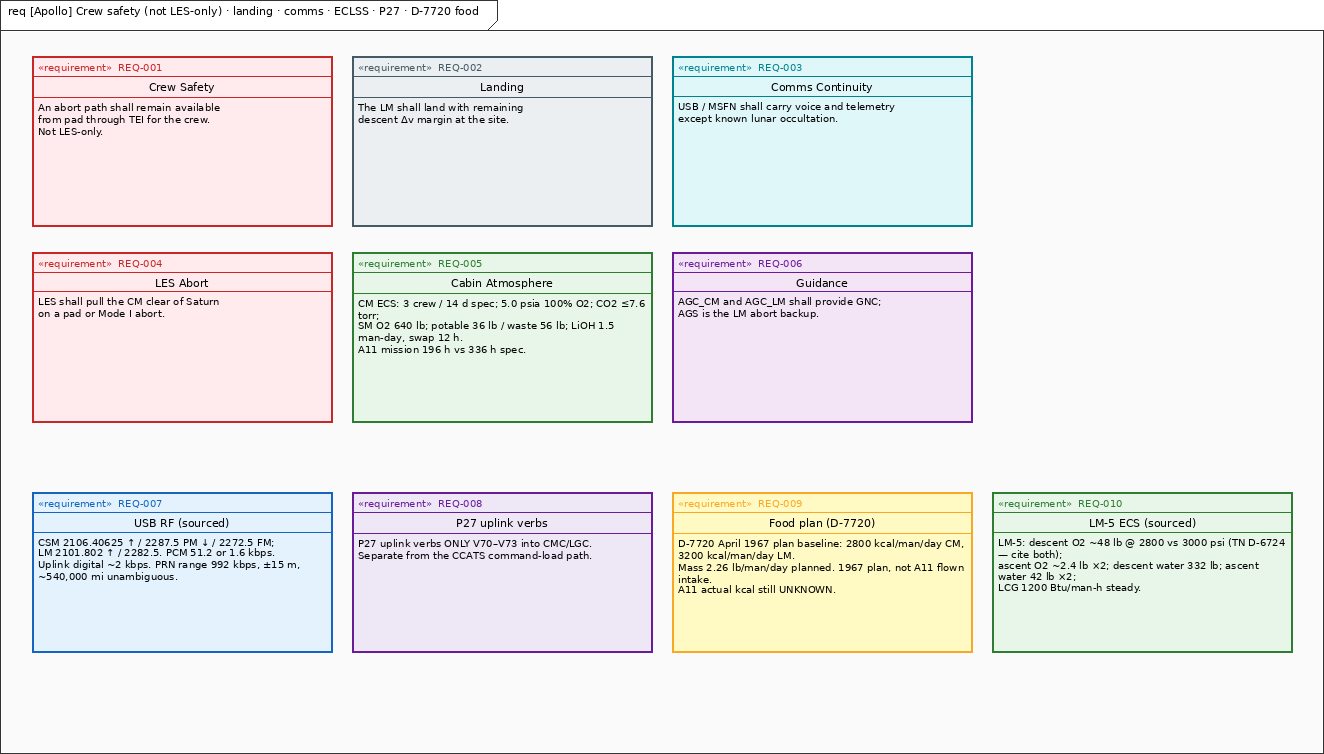
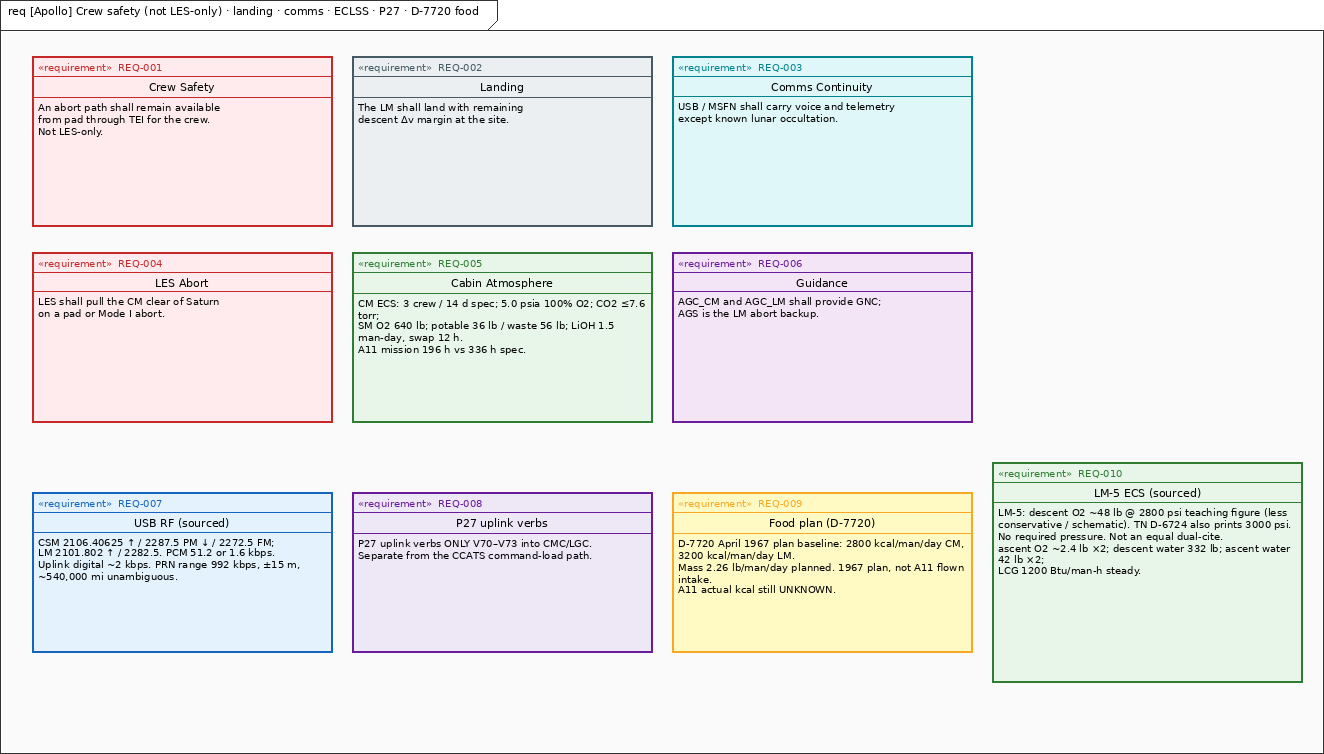
Lock Decision 8 O2 teaching psi and DPS Source C.
Descent O2 is 2,800 psi teaching, with D-6724 3,000 mentioned —
not an equal dual-cite and not “cite both.” DPS cites PK, D-7143,
and LMA790 as Source C; LMA790 stays unmarked in References.

Changed region(s): [[0.7432, 0.6101, 0.9909, 0.7931], [0.96, 0.8541, 0.9909, 0.8846]]

diff --git a/tests/test_apollo_example.py b/tests/test_apollo_example.py
@@ -401,6 +401,9 @@ class ApolloExampleTests(unittest.TestCase):
         self.assertEqual(dps["thrustTn"], "10,500 lbf (TN D-7143)")
         self.assertIn("cite both", dps["thrust"])
         self.assertIn("cite both", dps["throttle"])
+        self.assertIn("LMA790", dps["sourceC"])
+        self.assertIn("10:1", dps["sourceC"])
+        self.assertIn("6,800", dps["sourceC"])
         aps = {p["name"]: p.get("type") for p in defs["Apollo.APS"]["compartments"]["properties"]}
         self.assertEqual(aps["thrust"], "3,500 lbf")
         sat = {p["name"]: p.get("type") for p in defs["Apollo.SaturnV"]["compartments"]["properties"]}
@@ -569,7 +572,8 @@ class ApolloExampleTests(unittest.TestCase):
         ecs = {p["name"]: p["type"] for p in defs["Apollo.LM_ECS"]["compartments"]["properties"]}
         self.assertIn("2800", ecs["descentO2"])
         self.assertIn("3000", ecs["descentO2"])
-        self.assertIn("cite both", ecs["descentO2"])
+        self.assertIn("teaching", ecs["descentO2"])
+        self.assertNotIn("cite both", ecs["descentO2"])
         self.assertEqual(agc_cm["rope"], "Comanche 055")
         self.assertEqual(agc_lm["rope"], "LMY99 rev 001")
         self.assertEqual(sic["fueled"], "5,022,674 lb")

diff --git a/projects/apollo/architecture-summary.md b/projects/apollo/architecture-summary.md
@@ -166,11 +166,11 @@ The ECLSS activity and parametric views still overlap after the layout pass. Cab
 
 ## 5. Parametrics
 
-Numbers in this paper come from NASA pages a reader can still open. Conflicts stay **UNRECONCILED** — cite both, no silent winner. Four fights stay dual-cites: Press Kit p. 109 tank and stage loads, not a closed mass budget (NASA, 1969); two SPS vacuum thrusts; three DPS thrust cites; descent O2 teaching 2,800 psi with a mention of 3,000 psi (NASA, 1972).
+Numbers in this paper come from NASA pages a reader can still open. Conflicts stay **UNRECONCILED** — no silent winner. Press Kit p. 109 tank and stage loads are not a closed mass budget (NASA, 1969). SPS vacuum thrust is two cites. DPS has three cites and no shall. Descent O2 is a teaching figure of **2,800 psi**; TN D-6724 also prints **3,000 psi** (NASA, 1972). That oxygen pair is not an equal dual-cite.
 
 A11 Press Kit p. 109 tank loads and launch masses unless noted. **UNRECONCILED** — same flag as Δv. These are sourced stage loads, **not a closed mass budget**. S-IC (AS-506 / S-IC-6) 7,653,854 lbf liftoff / 5,022,674 lb fueled. F-1 per engine 1,530,000 lbf is the **SA-507** citation, not an AS-506 requirement. S-II 1,059,171 lb (S-II-6). S-IVB 260,523 lb (S-IVB-6N). IU 4,306 lb (IU-6). CM 12,250 lb. SM 51,243 lb. LM-5 33,205 lb. DPS load 18,100 lb. APS load 5,214 lb. LM RCS 604 lb; 100 lbf/engine (NASA, 1969, p. 106). SM RCS 100 lbf/engine (NASA, 1969, p. 93). CM RCS 93 lbf/engine, two 6-engine sets. LES 8,930 lb. AGC Block II 2048 E / 36864 F, 11.7 µs, 65 lb / 70 W. AEA 4096 × 18-bit, 5 µs, 32.7 lb (Kurten, 1975). APS thrust 3,500 lbf, 1.5° cant, not gimbaled (NASA, 1973, March). PLSS 4 h / 1.04 lb O2. CDR EVA 2:48 / LMP 2:40 is **TN D-8093 Table I** (Lutz et al., 1975). That is not the PAO hatch-to-hatch 2:31:40.
 
-SPS vacuum thrust is **minutiae**, not a required thrust: cite both Press Kit **20,500 lbf** (NASA, 1969) and TN D-7375 **21,500 lbf vac** (NASA, 1973, August). DPS has **three** sourced figures and no shall — do not pick a winner: Press Kit **9,870 / 1,050–6,300** lbf (NASA, 1969); TN D-7143 **10,500** lbf and **10:1** (NASA, 1973, March); LMA790 **9,870 / 1,050–6,800** lbf. LMA790 stays unmarked as a full cite; title and date are not in hand. A required-thrust number is not invented. Descent O2 teaching figure is **2,800 psi** (less conservative / schematic). TN D-6724 also prints **3,000 psi** (NASA, 1972). No required pressure — not an equal dual-cite.
+SPS vacuum thrust is **minutiae**, not a required thrust: cite both Press Kit **20,500 lbf** (NASA, 1969) and TN D-7375 **21,500 lbf vac** (NASA, 1973, August). DPS has **three** sourced figures and no shall — do not pick a winner: Press Kit **9,870 / 1,050–6,300** lbf (NASA, 1969); TN D-7143 **10,500** lbf and **10:1** (NASA, 1973, March); LMA790 **9,870 / 10:1–6,800** lbf (Source C on the DPS box). LMA790 stays unmarked in the References list; title and date are not in hand. A required-thrust number is not invented. Descent O2 teaching figure is **2,800 psi** (less conservative / schematic). TN D-6724 also prints **3,000 psi** (NASA, 1972). No required pressure. That oxygen pair is not an equal dual-cite.
 
 Fuel-cell wattage is not in the press kit. A secondary National Air and Space Museum (NASM) band is noted on the fuel-cell block and is not promoted to a requirement. Apollo Guidance Computer Information Series (AGCIS) 30 stays unmarked as a cite; title and date are not in hand.
 
@@ -199,7 +199,7 @@ Left unmarked on purpose. Do **not** invent:
 
 F-1 1,530,000 lbf stays the SA-507 per-engine citation. Do not promote it into an AS-506 requirement. AS-506 S-IC liftoff remains 7,653,854 lbf (NASA, 1969, p. 109).
 
-Descent O2 teaching figure is **2,800 psi** (less conservative / schematic). TN D-6724 also prints **3,000 psi** (NASA, 1972). No required pressure. Tank loads stay **UNRECONCILED**, same flag as Δv. SPS vacuum thrust is minutiae: 20,500 lbf (PK) and 21,500 lbf vac (TN D-7375) — no required thrust. DPS cites all three (PK 9,870 / 1,050–6,300; D-7143 10,500 / 10:1; LMA790 9,870 / 1,050–6,800) — no shall, no winner.
+Descent O2 teaching figure is **2,800 psi** (less conservative / schematic). TN D-6724 also prints **3,000 psi** (NASA, 1972). No required pressure. That oxygen pair is not an equal dual-cite. Tank loads stay **UNRECONCILED**, same flag as Δv. SPS vacuum thrust is minutiae: 20,500 lbf (PK) and 21,500 lbf vac (TN D-7375) — no required thrust. DPS cites all three (PK 9,870 / 1,050–6,300; D-7143 10,500 / 10:1; LMA790 9,870 / 10:1–6,800) — no shall, no winner. LMA790 is Source C on the DPS box and is unmarked in References.
 
 ## Generated views
 
